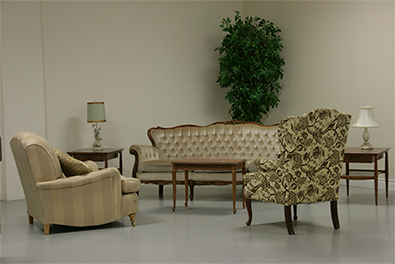
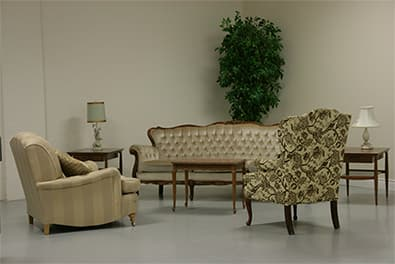
PP

diff --git a/index.html b/index.html
@@ -111,7 +111,7 @@
                 </div>
                 <div class="col-md-7">
                   <div class="img-box">
-                    <img src="images/slider-img.png" alt="">
+                    <img src="images/slider-img.webp" alt="">
                   </div>
                 </div>
               </div>
@@ -141,7 +141,7 @@
                 </div>
                 <div class="col-md-7">
                   <div class="img-box">
-                    <img src="images/slider-img.png" alt="">
+                    <img src="images/slider-img.webp" alt="">
                   </div>
                 </div>
               </div>
@@ -171,7 +171,7 @@
                 </div>
                 <div class="col-md-7">
                   <div class="img-box">
-                    <img src="images/slider-img.png" alt="">
+                    <img src="images/slider-img.webp" alt="">
                   </div>
                 </div>
               </div>
@@ -445,7 +445,7 @@
               <div class="col-md-11 col-lg-10 mx-auto">
                 <div class="box">
                   <div class="img-box">
-                    <img src="images/client.jpg" alt="" />
+                    <img src="images/client.webp" alt="" />
                   </div>
                   <div class="detail-box">
                     <div class="name">
@@ -469,7 +469,7 @@
               <div class="col-md-11 col-lg-10 mx-auto">
                 <div class="box">
                   <div class="img-box">
-                    <img src="images/client.jpg" alt="" />
+                    <img src="images/client.webp" alt="" />
                   </div>
                   <div class="detail-box">
                     <div class="name">
